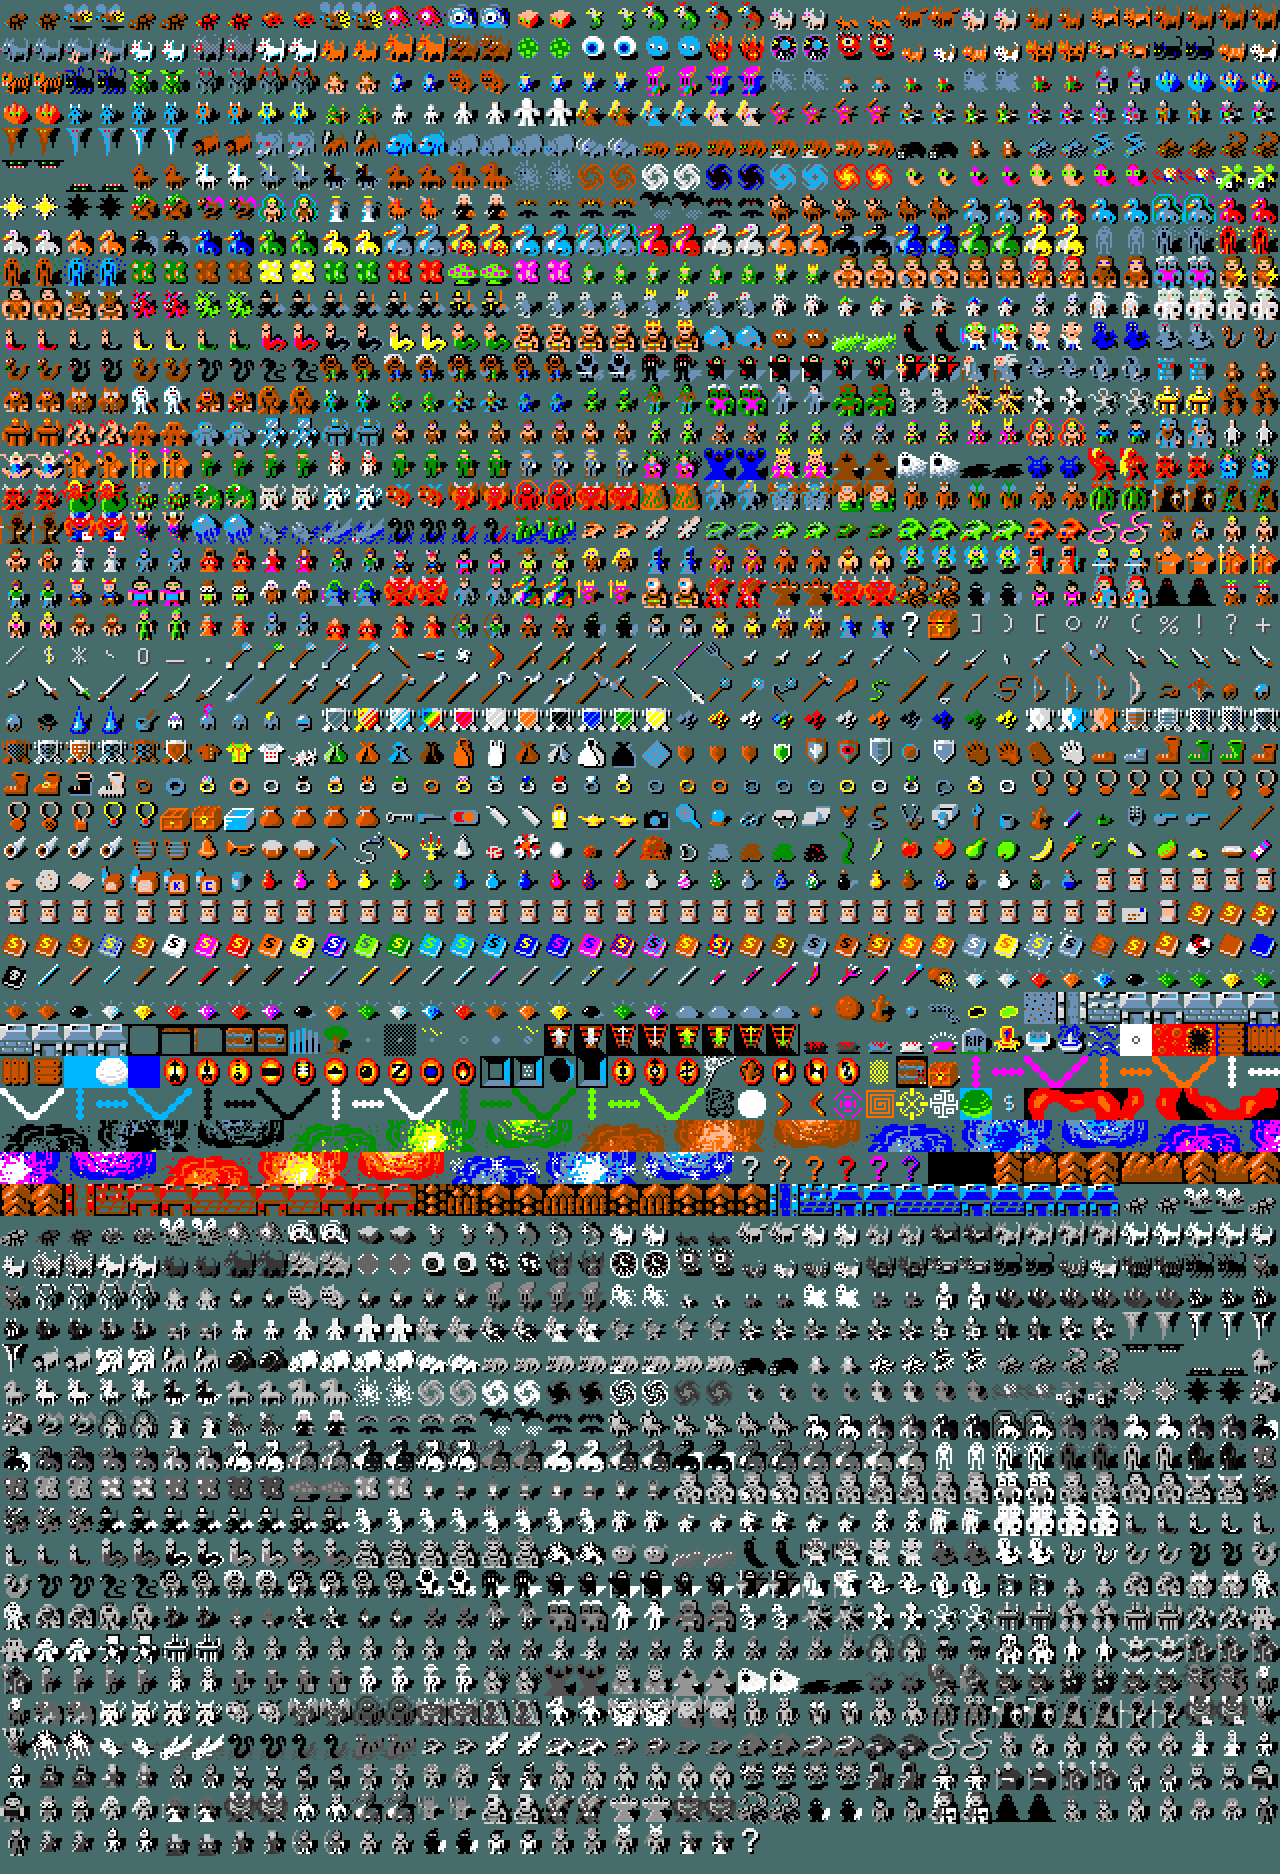
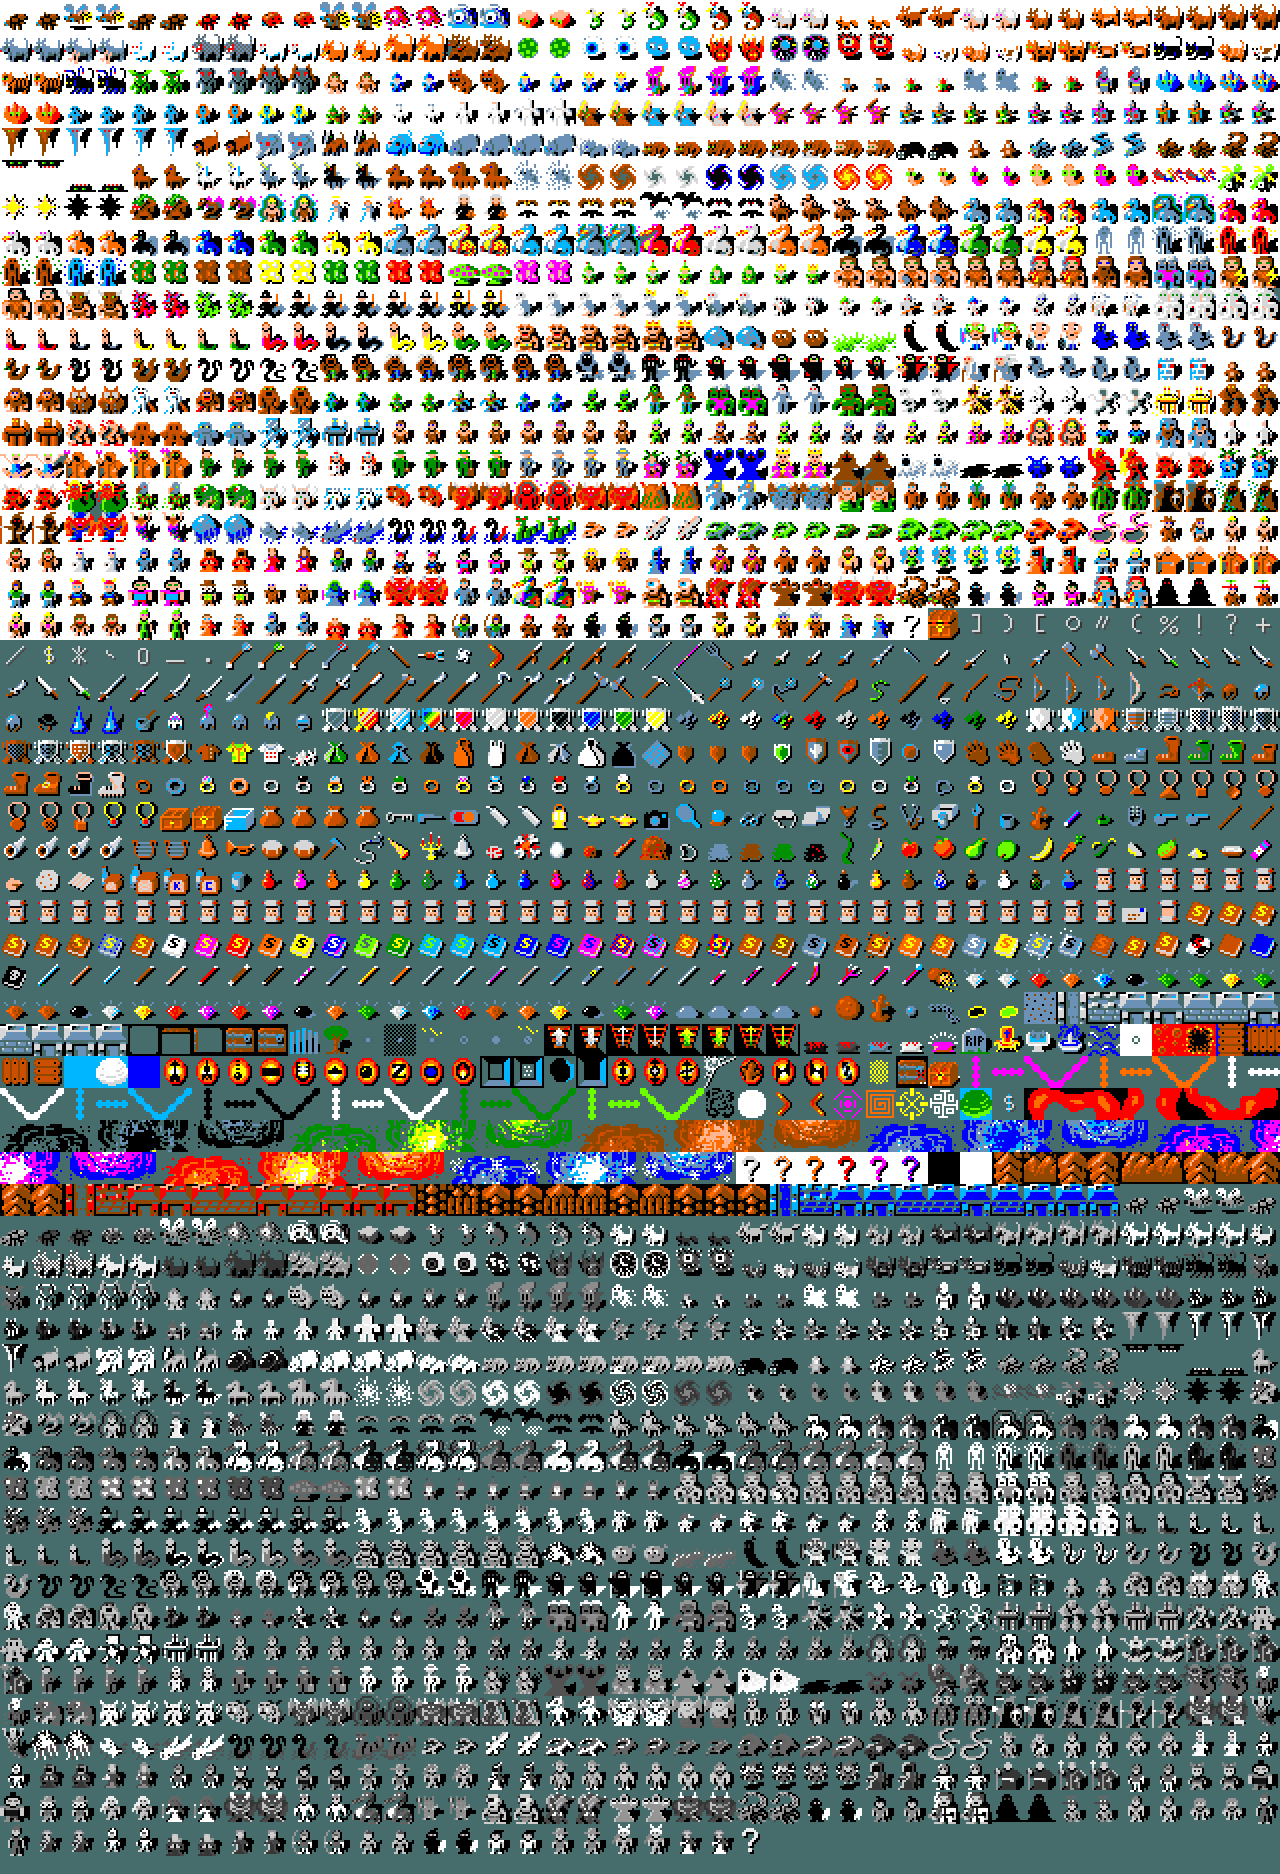
Update
画像の透過調整

Changed region(s): [[0.0, 0.0, 1.0, 0.3404], [0.5625, 0.588, 0.7188, 0.6499], [0.75, 0.588, 0.7812, 0.6499]]

diff --git a/ioControl.js b/ioControl.js
@@ -32,7 +32,7 @@ class ioControl extends GameTask {
 		 * [name, index, [w, h, fontId, prompt, charW, lineW, x, y, bgcolor, useUtf]]
 		 */
 		const consoleConfigs = [
-			["MAP_BG", 0, [80, 24, "std_l", PTUB, 8, 16, 0, 0, null, true]],
+			["MAP_BG", 0, [160, 24, "std_l", PTUB, 8, 16, 0, 0, "rgb(8 24 16)", true]],
 			["MAP", 1, [80, 24, "std_l", false, 8, 16, 1, 0, null, true]],
 			["STATUS", 2, [80, 3, "std_l", false, 8, 16, 64, 384, "rgb( 0 32 64)", true]],
 			["MESSAGE", 3, [108, 36, "std_l", PTMSG, 8, 16, 48, 432, "rgb(  0  0 100)", true]],
